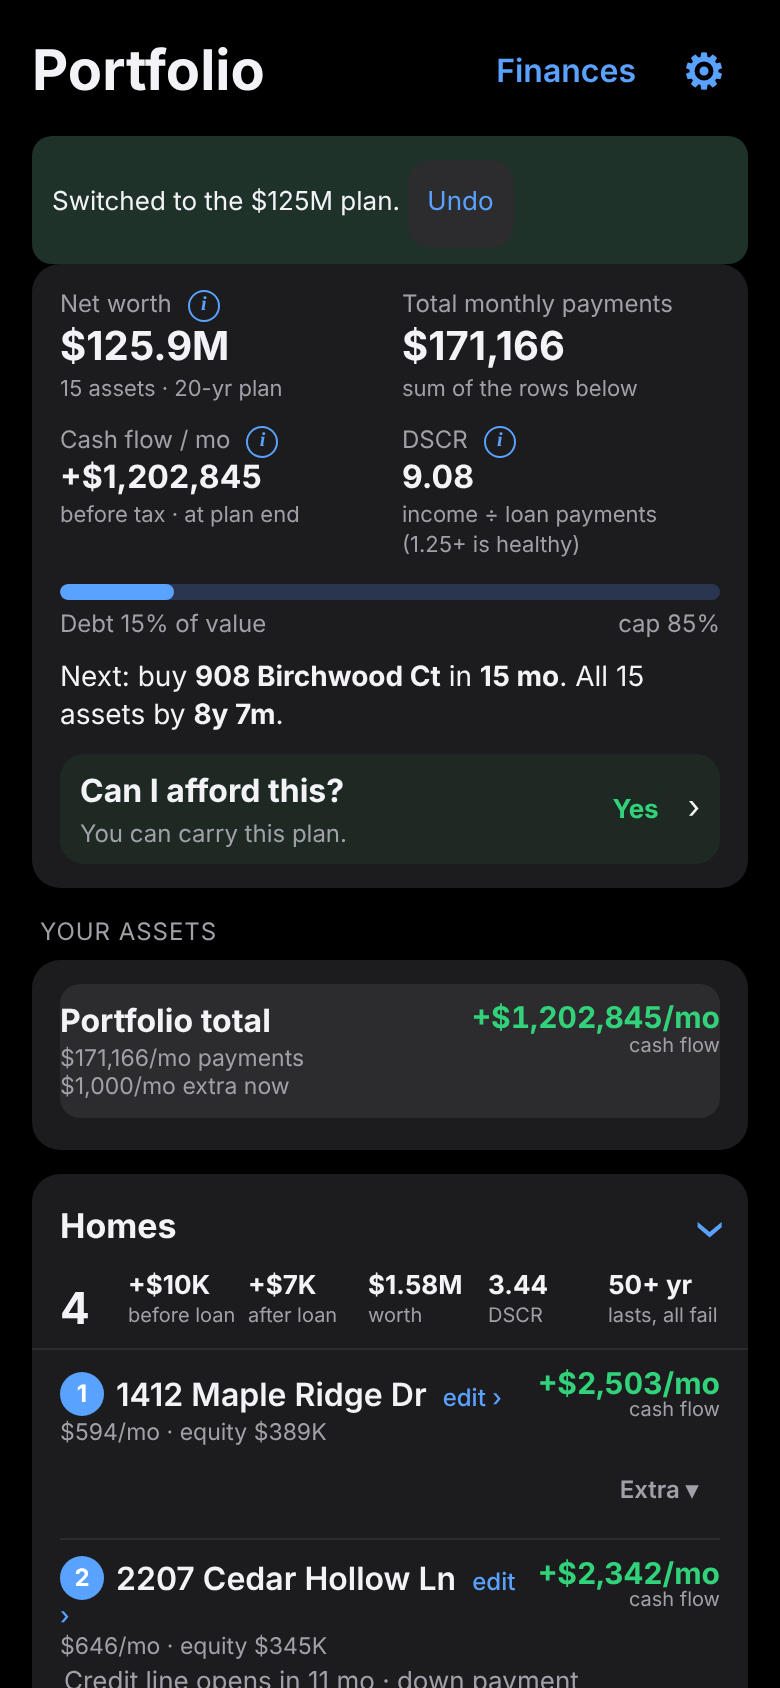
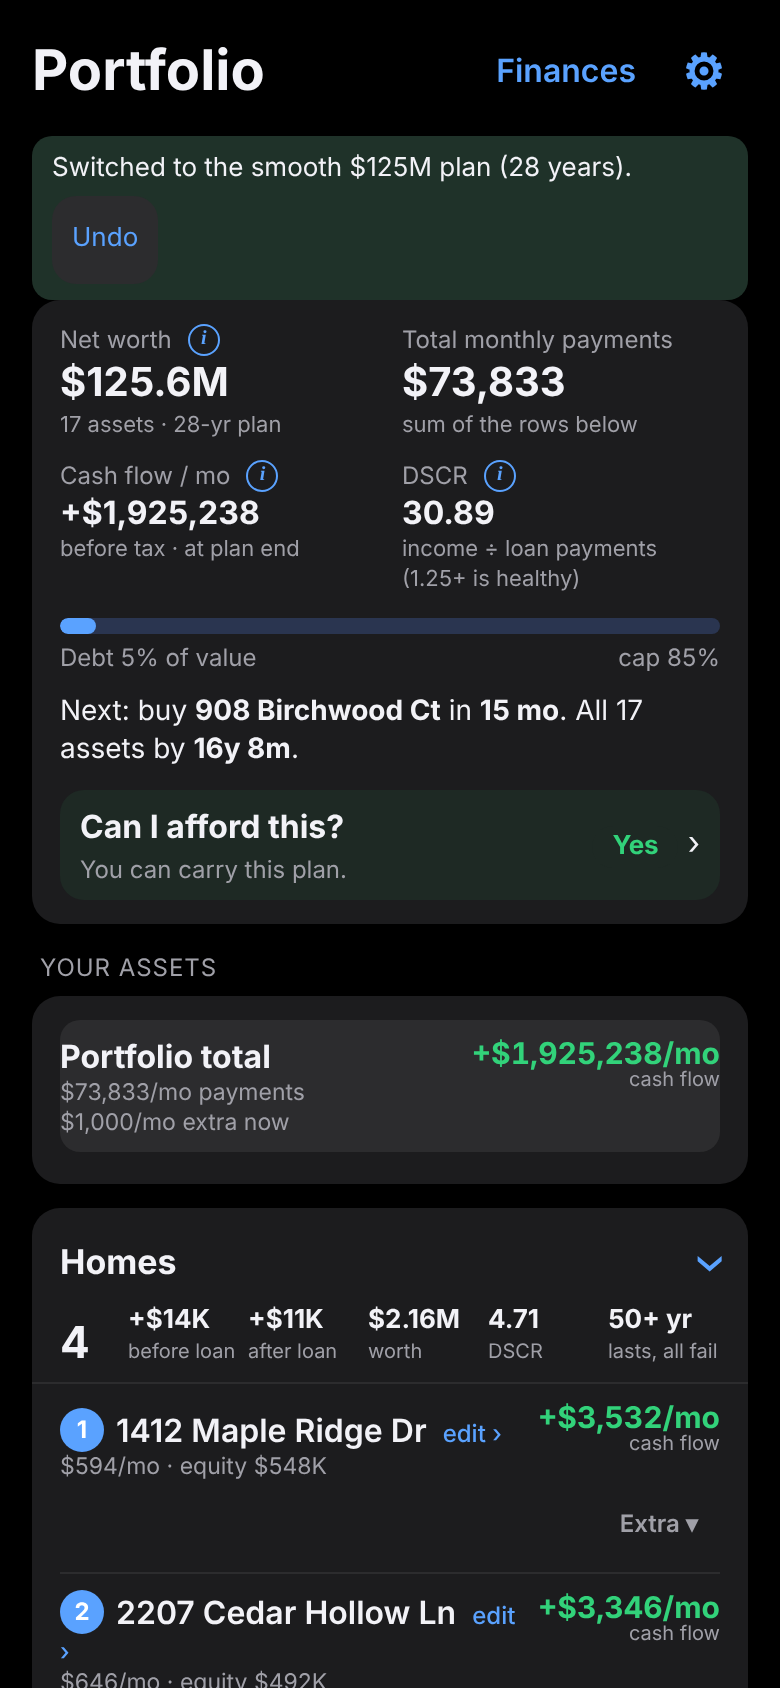
Smooth 28-year $125M plan: purchase sizes grow about 25% per step instead of jumping; v10 saves switch once with Undo
Claude-Session: https://claude.ai/code/session_01T1SyQgdTcpALEohR2VebD5

Changed region(s): [[0.0308, 0.0924, 0.9538, 1.0], [0.9231, 0.154, 0.9846, 0.1848], [0.0308, 0.154, 0.0615, 0.1848]]

diff --git a/prototype/v4/artifact.html b/prototype/v4/artifact.html
@@ -712,23 +712,25 @@ select.notarget{color:var(--mut);font-weight:400;font-size:14px}
     A('commercial', 'bridge', {id: 'river', addr: 'Riverside Flex Industrial', price: 14640000, rent: 148047, tax: 5307, ins: 4118, hoa: 2288, growth: 5, buyIn: 96, capex: 1200000, capexMonths: 12, liftValue: 18, liftIncome: 12, exit: 'sell', exitMonth: 160}),
     A('commercial', 'comm25', {id: 'west', addr: 'Westfield Office Park', price: 10065000, rent: 102480, tax: 3843, ins: 3020, hoa: 2196, growth: 5, buyIn: 120}),
     A('house', 'cashh', {id: 'stradella', addr: '900 Stradella Rd residence', price: 38731700, rent: 150000, tax: 35500, ins: 11000, growth: 3.5, buyIn: 200})] }); };
-  /* $125M plan (the default portfolio): about $125M of net worth at the end of the 20-year plan, bought in the numbered order. Creative financing: seller financing, SBA 504 and 7(a), bridge, DSCR, bank term loans, seller notes, a credit-line chain and partner capital. */
-  const seedPlan = () => { const A = newAsset; const p = samplePersonal(); p.capital = [{ id: 'cap0', name: 'Family and friends', month: 14, amount: 30000 }, { id: 'cap1', name: 'Seed partners', month: 17, amount: 4170000 }, { id: 'cap2', name: 'Growth partners', month: 47, amount: 4230000 }]; return normalize({ g: Object.assign({}, GDEF, { otherDebt: 450 }), p, houses: [
+  /* Default portfolio: smooth growth to about $125M of net worth. Purchases get bigger step by step (about 25% larger than the one before), financed with seller notes and financing, SBA 504 and 7(a), bridge, DSCR and bank loans, plus partner capital. */
+  const seedPlan = () => { const A = newAsset; const p = samplePersonal(); p.capital = [{ id: 'cap0', name: 'Family and friends', month: 14, amount: 30000 }, { id: 'cap1', name: 'Seed partners', month: 27, amount: 680000 }, { id: 'cap2', name: 'Growth partners', month: 73, amount: 1190000 }, { id: 'cap3', name: 'Institutional partner', month: 109, amount: 2080000 }, { id: 'cap4', name: 'Follow-on partner', month: 163, amount: 6040000 }]; return normalize({ g: Object.assign({}, GDEF, { otherDebt: 450, planYears: 28 }), p, houses: [
     A('house', 'conv30', {id: 'maple', addr: '1412 Maple Ridge Dr', status: 'owned', price: 185000, rate: 6.5, paid: 18, extra: 600, rent: 1900, tax: 215, ins: 90, growth: 4, target: 'birch'}),
     A('house', 'conv30', {id: 'cedar', addr: '2207 Cedar Hollow Ln', status: 'owned', price: 165000, rate: 6.75, paid: 30, extra: 400, rent: 1750, tax: 180, ins: 85, growth: 4, target: 'willow'}),
     A('business', 'sba7a', {id: 'auto', addr: 'Precision Auto Care', status: 'owned', price: 1100000, paid: 12, rent: 34000, growth: 9}),
-    A('commercial', 'sellerc', {id: 'north', addr: 'Northgate Retail Strip', price: 1159000, rent: 11712, tax: 549, ins: 427, hoa: 305, growth: 5, buyIn: 18}),
     A('house', 'conv30', {id: 'birch', addr: '908 Birchwood Ct', price: 195000, rent: 2000, tax: 220, ins: 90, growth: 4, capex: 30000, capexMonths: 4, liftValue: 12, liftIncome: 8, exit: 'sell', exitMonth: 56}),
-    A('business', 'bankbiz', {id: 'bridgeway', addr: 'Bridgeway Software', price: 8235000, rent: 109800, growth: 8, buyIn: 24, exit: 'sell', exitMonth: 228}),
-    A('business', 'bankbiz', {id: 'freight', addr: 'Summit Freight & Logistics', price: 4758000, rent: 86925, growth: 6.33, buyIn: 30, target: 'keystone'}),
     A('house', 'dscr', {id: 'willow', addr: '3350 Willow Bend Rd', price: 210000, rent: 2125, tax: 235, ins: 95, growth: 4, target: 'linden'}),
-    A('commercial', 'sba504', {id: 'harbor', addr: 'Harbor St Self-Storage', price: 3843000, rent: 38338, tax: 1647, ins: 1372, hoa: 824, growth: 5, buyIn: 36}),
-    A('business', 'sba7a', {id: 'keystone', addr: 'Keystone HVAC Services', price: 1342000, rent: 28060, growth: 10, buyIn: 36, exit: 'merge', exitMonth: 72, exitLift: 15, mergeInto: 'auto'}),
-    A('business', 'sellerb', {id: 'apex', addr: 'Apex Property Services', price: 2562000, rent: 53070, growth: 12, buyIn: 48, exit: 'merge', exitMonth: 84, exitLift: 20, mergeInto: 'freight'}),
-    A('commercial', 'comm25', {id: 'lake', addr: 'Lakeview Medical Office', price: 7778000, rent: 76677, tax: 2928, ins: 2379, hoa: 1647, growth: 5, buyIn: 60, target: 'west'}),
-    A('business', 'sellerb', {id: 'meridian', addr: 'Meridian Staffing Group', price: 5948000, rent: 96075, growth: 8, buyIn: 60, capex: 300000, capexMonths: 9, liftValue: 25, liftIncome: 15, exit: 'sell', exitMonth: 204}),
-    A('house', 'conv30', {id: 'linden', addr: '2914 Linden Way', price: 175000, buyIn: 90, rent: 1825, tax: 195, ins: 85, growth: 4}),
-    A('commercial', 'comm25', {id: 'west', addr: 'Westfield Office Park', price: 10065000, rent: 102480, tax: 3843, ins: 3020, hoa: 2196, growth: 5, buyIn: 120})] }); };
+    A('house', 'conv30', {id: 'linden', addr: '2914 Linden Way', price: 175000, rent: 1825, tax: 195, ins: 85, growth: 4}),
+    A('business', 'sba7a', {id: 'cornerston', addr: 'Cornerstone Plumbing Co', price: 1200000, rent: 30300, growth: 7.5, buyIn: 28}),
+    A('commercial', 'sba504', {id: 'northgater', addr: 'Northgate Retail Strip', price: 1500000, rent: 13510, tax: 500, ins: 375, hoa: 250, growth: 4.5, buyIn: 42}),
+    A('business', 'sellerb', {id: 'summitfrei', addr: 'Summit Freight & Logistics', price: 1880000, rent: 47470, growth: 7.5, buyIn: 56}),
+    A('commercial', 'comm25', {id: 'harborstse', addr: 'Harbor St Self-Storage', price: 2355000, rent: 21210, tax: 785, ins: 590, hoa: 395, growth: 4.5, buyIn: 74, capex: 140000, capexMonths: 9, liftValue: 18, liftIncome: 12, exit: 'sell', exitMonth: 146}),
+    A('business', 'sba7a', {id: 'keystonehv', addr: 'Keystone HVAC Services', price: 2950000, rent: 58530, growth: 7.5, buyIn: 92}),
+    A('commercial', 'comm25', {id: 'lakeviewme', addr: 'Lakeview Medical Office', price: 3700000, rent: 31540, tax: 1235, ins: 925, hoa: 615, growth: 4.5, buyIn: 110}),
+    A('business', 'sellerb', {id: 'apexproper', addr: 'Apex Property Services', price: 4625000, rent: 91770, growth: 7.5, buyIn: 128, exit: 'sell', exitMonth: 224}),
+    A('commercial', 'bridge', {id: 'westfieldo', addr: 'Westfield Office Park', price: 5775000, rent: 49240, tax: 1925, ins: 1445, hoa: 965, growth: 4.5, buyIn: 146}),
+    A('business', 'bankbiz', {id: 'meridianst', addr: 'Meridian Staffing Group', price: 7250000, rent: 120830, growth: 7.5, buyIn: 164}),
+    A('commercial', 'sellerc', {id: 'eastgatesh', addr: 'Eastgate Shopping Plaza', price: 9075000, rent: 73890, tax: 3025, ins: 2270, hoa: 1515, growth: 4.5, buyIn: 182, capex: 545000, capexMonths: 9, liftValue: 18, liftIncome: 12, exit: 'sell', exitMonth: 254}),
+    A('business', 'sellerb', {id: 'ironwoodma', addr: 'Ironwood Manufacturing', price: 11350000, rent: 163070, growth: 7.5, buyIn: 200})] }); };
   /* DEFAULT sample (listed in the order the assets are bought). Every loan, price, cap rate, multiple and growth rate is checked against
      the grader's benchmark file (prototype/grader). Homes cash flow positive. Recycles sale cash; needs about $1.3M of outside cash. */
   const seed = () => { const A = newAsset; return normalize({ g: Object.assign({}, GDEF, { otherDebt: 450 }), p: samplePersonal(), houses: [
@@ -893,10 +895,10 @@ select.notarget{color:var(--mut);font-weight:400;font-size:14px}
   const E = window.Engine, KEY = 'rep-v4', UIKEY = 'rep-v4-ui';
   let S, UI = { tab: 'timeline', open: false, coll: { drivers: true }, hideLegend: false, addType: 'house', addLoan: '', view: 'plan' };
   try { S = JSON.parse(localStorage.getItem(KEY)); } catch (e) { S = null; }
-  const DATA_V = 10; /* bump when the sample portfolio changes so old saved samples are replaced */
+  const DATA_V = 11; /* bump when the sample portfolio changes so old saved samples are replaced */
   if (S && Array.isArray(S.houses) && S.g && S.v === 8) { S.p = S.p || E.samplePersonal(); S.v = DATA_V; } /* v8 saves keep their assets and gain a finance profile */
   let switched = null;
-  if (S && Array.isArray(S.houses) && S.g && S.v === 9) { switched = JSON.stringify(S); const keepP = S.p, plan = E.seedPlan(); if (keepP) plan.p = Object.assign({}, keepP, { capital: plan.p.capital }); S = plan; S.v = DATA_V; } /* v9 saves switch to the $125M plan once; Undo brings the old one back */
+  if (S && Array.isArray(S.houses) && S.g && (S.v === 9 || S.v === 10)) { switched = JSON.stringify(S); const keepP = S.p, plan = E.seedPlan(); if (keepP) plan.p = Object.assign({}, keepP, { capital: plan.p.capital }); S = plan; S.v = DATA_V; } /* v9 saves switch to the $125M plan once; Undo brings the old one back */
   if (!S || !Array.isArray(S.houses) || !S.g || S.v !== DATA_V) S = E.seedPlan();
   E.normalize(S); if (!S.p) S.p = E.samplePersonal(); S.p = E.normalizePersonal(S.p); S.v = DATA_V;
   /* a new asset is funded by the asset right before it in its category: only that one link is added; every other link stays as it was */
@@ -906,7 +908,7 @@ select.notarget{color:var(--mut);font-weight:400;font-size:14px}
   fixOrder(S);
   try { UI = Object.assign(UI, JSON.parse(localStorage.getItem(UIKEY)) || {}); } catch (e) {}
   let storageOK = true, impName = '', imp = null, ask = null, notice = '', pendingImport = null, exportOpen = false, undo = null, selId = null;
-  if (switched) undo = { text: 'Switched to the $125M plan.', label: 'old portfolio', snap: switched };
+  if (switched) undo = { text: 'Switched to the smooth $125M plan (28 years).', label: 'old portfolio', snap: switched };
   const save = () => { try { localStorage.setItem(KEY, JSON.stringify(S)); localStorage.setItem(UIKEY, JSON.stringify(UI)); storageOK = true; } catch (e) { storageOK = false; } };
   const H = (id) => E.H(S, id);
   /* viewer-safe routes: #house-<id>, #assumptions, #import-<id|new> */

diff --git a/prototype/v4/engine.js b/prototype/v4/engine.js
@@ -414,23 +414,25 @@
     A('commercial', 'bridge', {id: 'river', addr: 'Riverside Flex Industrial', price: 14640000, rent: 148047, tax: 5307, ins: 4118, hoa: 2288, growth: 5, buyIn: 96, capex: 1200000, capexMonths: 12, liftValue: 18, liftIncome: 12, exit: 'sell', exitMonth: 160}),
     A('commercial', 'comm25', {id: 'west', addr: 'Westfield Office Park', price: 10065000, rent: 102480, tax: 3843, ins: 3020, hoa: 2196, growth: 5, buyIn: 120}),
     A('house', 'cashh', {id: 'stradella', addr: '900 Stradella Rd residence', price: 38731700, rent: 150000, tax: 35500, ins: 11000, growth: 3.5, buyIn: 200})] }); };
-  /* $125M plan (the default portfolio): about $125M of net worth at the end of the 20-year plan, bought in the numbered order. Creative financing: seller financing, SBA 504 and 7(a), bridge, DSCR, bank term loans, seller notes, a credit-line chain and partner capital. */
-  const seedPlan = () => { const A = newAsset; const p = samplePersonal(); p.capital = [{ id: 'cap0', name: 'Family and friends', month: 14, amount: 30000 }, { id: 'cap1', name: 'Seed partners', month: 17, amount: 4170000 }, { id: 'cap2', name: 'Growth partners', month: 47, amount: 4230000 }]; return normalize({ g: Object.assign({}, GDEF, { otherDebt: 450 }), p, houses: [
+  /* Default portfolio: smooth growth to about $125M of net worth. Purchases get bigger step by step (about 25% larger than the one before), financed with seller notes and financing, SBA 504 and 7(a), bridge, DSCR and bank loans, plus partner capital. */
+  const seedPlan = () => { const A = newAsset; const p = samplePersonal(); p.capital = [{ id: 'cap0', name: 'Family and friends', month: 14, amount: 30000 }, { id: 'cap1', name: 'Seed partners', month: 27, amount: 680000 }, { id: 'cap2', name: 'Growth partners', month: 73, amount: 1190000 }, { id: 'cap3', name: 'Institutional partner', month: 109, amount: 2080000 }, { id: 'cap4', name: 'Follow-on partner', month: 163, amount: 6040000 }]; return normalize({ g: Object.assign({}, GDEF, { otherDebt: 450, planYears: 28 }), p, houses: [
     A('house', 'conv30', {id: 'maple', addr: '1412 Maple Ridge Dr', status: 'owned', price: 185000, rate: 6.5, paid: 18, extra: 600, rent: 1900, tax: 215, ins: 90, growth: 4, target: 'birch'}),
     A('house', 'conv30', {id: 'cedar', addr: '2207 Cedar Hollow Ln', status: 'owned', price: 165000, rate: 6.75, paid: 30, extra: 400, rent: 1750, tax: 180, ins: 85, growth: 4, target: 'willow'}),
     A('business', 'sba7a', {id: 'auto', addr: 'Precision Auto Care', status: 'owned', price: 1100000, paid: 12, rent: 34000, growth: 9}),
-    A('commercial', 'sellerc', {id: 'north', addr: 'Northgate Retail Strip', price: 1159000, rent: 11712, tax: 549, ins: 427, hoa: 305, growth: 5, buyIn: 18}),
     A('house', 'conv30', {id: 'birch', addr: '908 Birchwood Ct', price: 195000, rent: 2000, tax: 220, ins: 90, growth: 4, capex: 30000, capexMonths: 4, liftValue: 12, liftIncome: 8, exit: 'sell', exitMonth: 56}),
-    A('business', 'bankbiz', {id: 'bridgeway', addr: 'Bridgeway Software', price: 8235000, rent: 109800, growth: 8, buyIn: 24, exit: 'sell', exitMonth: 228}),
-    A('business', 'bankbiz', {id: 'freight', addr: 'Summit Freight & Logistics', price: 4758000, rent: 86925, growth: 6.33, buyIn: 30, target: 'keystone'}),
     A('house', 'dscr', {id: 'willow', addr: '3350 Willow Bend Rd', price: 210000, rent: 2125, tax: 235, ins: 95, growth: 4, target: 'linden'}),
-    A('commercial', 'sba504', {id: 'harbor', addr: 'Harbor St Self-Storage', price: 3843000, rent: 38338, tax: 1647, ins: 1372, hoa: 824, growth: 5, buyIn: 36}),
-    A('business', 'sba7a', {id: 'keystone', addr: 'Keystone HVAC Services', price: 1342000, rent: 28060, growth: 10, buyIn: 36, exit: 'merge', exitMonth: 72, exitLift: 15, mergeInto: 'auto'}),
-    A('business', 'sellerb', {id: 'apex', addr: 'Apex Property Services', price: 2562000, rent: 53070, growth: 12, buyIn: 48, exit: 'merge', exitMonth: 84, exitLift: 20, mergeInto: 'freight'}),
-    A('commercial', 'comm25', {id: 'lake', addr: 'Lakeview Medical Office', price: 7778000, rent: 76677, tax: 2928, ins: 2379, hoa: 1647, growth: 5, buyIn: 60, target: 'west'}),
-    A('business', 'sellerb', {id: 'meridian', addr: 'Meridian Staffing Group', price: 5948000, rent: 96075, growth: 8, buyIn: 60, capex: 300000, capexMonths: 9, liftValue: 25, liftIncome: 15, exit: 'sell', exitMonth: 204}),
-    A('house', 'conv30', {id: 'linden', addr: '2914 Linden Way', price: 175000, buyIn: 90, rent: 1825, tax: 195, ins: 85, growth: 4}),
-    A('commercial', 'comm25', {id: 'west', addr: 'Westfield Office Park', price: 10065000, rent: 102480, tax: 3843, ins: 3020, hoa: 2196, growth: 5, buyIn: 120})] }); };
+    A('house', 'conv30', {id: 'linden', addr: '2914 Linden Way', price: 175000, rent: 1825, tax: 195, ins: 85, growth: 4}),
+    A('business', 'sba7a', {id: 'cornerston', addr: 'Cornerstone Plumbing Co', price: 1200000, rent: 30300, growth: 7.5, buyIn: 28}),
+    A('commercial', 'sba504', {id: 'northgater', addr: 'Northgate Retail Strip', price: 1500000, rent: 13510, tax: 500, ins: 375, hoa: 250, growth: 4.5, buyIn: 42}),
+    A('business', 'sellerb', {id: 'summitfrei', addr: 'Summit Freight & Logistics', price: 1880000, rent: 47470, growth: 7.5, buyIn: 56}),
+    A('commercial', 'comm25', {id: 'harborstse', addr: 'Harbor St Self-Storage', price: 2355000, rent: 21210, tax: 785, ins: 590, hoa: 395, growth: 4.5, buyIn: 74, capex: 140000, capexMonths: 9, liftValue: 18, liftIncome: 12, exit: 'sell', exitMonth: 146}),
+    A('business', 'sba7a', {id: 'keystonehv', addr: 'Keystone HVAC Services', price: 2950000, rent: 58530, growth: 7.5, buyIn: 92}),
+    A('commercial', 'comm25', {id: 'lakeviewme', addr: 'Lakeview Medical Office', price: 3700000, rent: 31540, tax: 1235, ins: 925, hoa: 615, growth: 4.5, buyIn: 110}),
+    A('business', 'sellerb', {id: 'apexproper', addr: 'Apex Property Services', price: 4625000, rent: 91770, growth: 7.5, buyIn: 128, exit: 'sell', exitMonth: 224}),
+    A('commercial', 'bridge', {id: 'westfieldo', addr: 'Westfield Office Park', price: 5775000, rent: 49240, tax: 1925, ins: 1445, hoa: 965, growth: 4.5, buyIn: 146}),
+    A('business', 'bankbiz', {id: 'meridianst', addr: 'Meridian Staffing Group', price: 7250000, rent: 120830, growth: 7.5, buyIn: 164}),
+    A('commercial', 'sellerc', {id: 'eastgatesh', addr: 'Eastgate Shopping Plaza', price: 9075000, rent: 73890, tax: 3025, ins: 2270, hoa: 1515, growth: 4.5, buyIn: 182, capex: 545000, capexMonths: 9, liftValue: 18, liftIncome: 12, exit: 'sell', exitMonth: 254}),
+    A('business', 'sellerb', {id: 'ironwoodma', addr: 'Ironwood Manufacturing', price: 11350000, rent: 163070, growth: 7.5, buyIn: 200})] }); };
   /* DEFAULT sample (listed in the order the assets are bought). Every loan, price, cap rate, multiple and growth rate is checked against
      the grader's benchmark file (prototype/grader). Homes cash flow positive. Recycles sale cash; needs about $1.3M of outside cash. */
   const seed = () => { const A = newAsset; return normalize({ g: Object.assign({}, GDEF, { otherDebt: 450 }), p: samplePersonal(), houses: [

diff --git a/prototype/v4/app.js b/prototype/v4/app.js
@@ -3,10 +3,10 @@
   const E = window.Engine, KEY = 'rep-v4', UIKEY = 'rep-v4-ui';
   let S, UI = { tab: 'timeline', open: false, coll: { drivers: true }, hideLegend: false, addType: 'house', addLoan: '', view: 'plan' };
   try { S = JSON.parse(localStorage.getItem(KEY)); } catch (e) { S = null; }
-  const DATA_V = 10; /* bump when the sample portfolio changes so old saved samples are replaced */
+  const DATA_V = 11; /* bump when the sample portfolio changes so old saved samples are replaced */
   if (S && Array.isArray(S.houses) && S.g && S.v === 8) { S.p = S.p || E.samplePersonal(); S.v = DATA_V; } /* v8 saves keep their assets and gain a finance profile */
   let switched = null;
-  if (S && Array.isArray(S.houses) && S.g && S.v === 9) { switched = JSON.stringify(S); const keepP = S.p, plan = E.seedPlan(); if (keepP) plan.p = Object.assign({}, keepP, { capital: plan.p.capital }); S = plan; S.v = DATA_V; } /* v9 saves switch to the $125M plan once; Undo brings the old one back */
+  if (S && Array.isArray(S.houses) && S.g && (S.v === 9 || S.v === 10)) { switched = JSON.stringify(S); const keepP = S.p, plan = E.seedPlan(); if (keepP) plan.p = Object.assign({}, keepP, { capital: plan.p.capital }); S = plan; S.v = DATA_V; } /* v9 saves switch to the $125M plan once; Undo brings the old one back */
   if (!S || !Array.isArray(S.houses) || !S.g || S.v !== DATA_V) S = E.seedPlan();
   E.normalize(S); if (!S.p) S.p = E.samplePersonal(); S.p = E.normalizePersonal(S.p); S.v = DATA_V;
   /* a new asset is funded by the asset right before it in its category: only that one link is added; every other link stays as it was */
@@ -16,7 +16,7 @@
   fixOrder(S);
   try { UI = Object.assign(UI, JSON.parse(localStorage.getItem(UIKEY)) || {}); } catch (e) {}
   let storageOK = true, impName = '', imp = null, ask = null, notice = '', pendingImport = null, exportOpen = false, undo = null, selId = null;
-  if (switched) undo = { text: 'Switched to the $125M plan.', label: 'old portfolio', snap: switched };
+  if (switched) undo = { text: 'Switched to the smooth $125M plan (28 years).', label: 'old portfolio', snap: switched };
   const save = () => { try { localStorage.setItem(KEY, JSON.stringify(S)); localStorage.setItem(UIKEY, JSON.stringify(UI)); storageOK = true; } catch (e) { storageOK = false; } };
   const H = (id) => E.H(S, id);
   /* viewer-safe routes: #house-<id>, #assumptions, #import-<id|new> */
